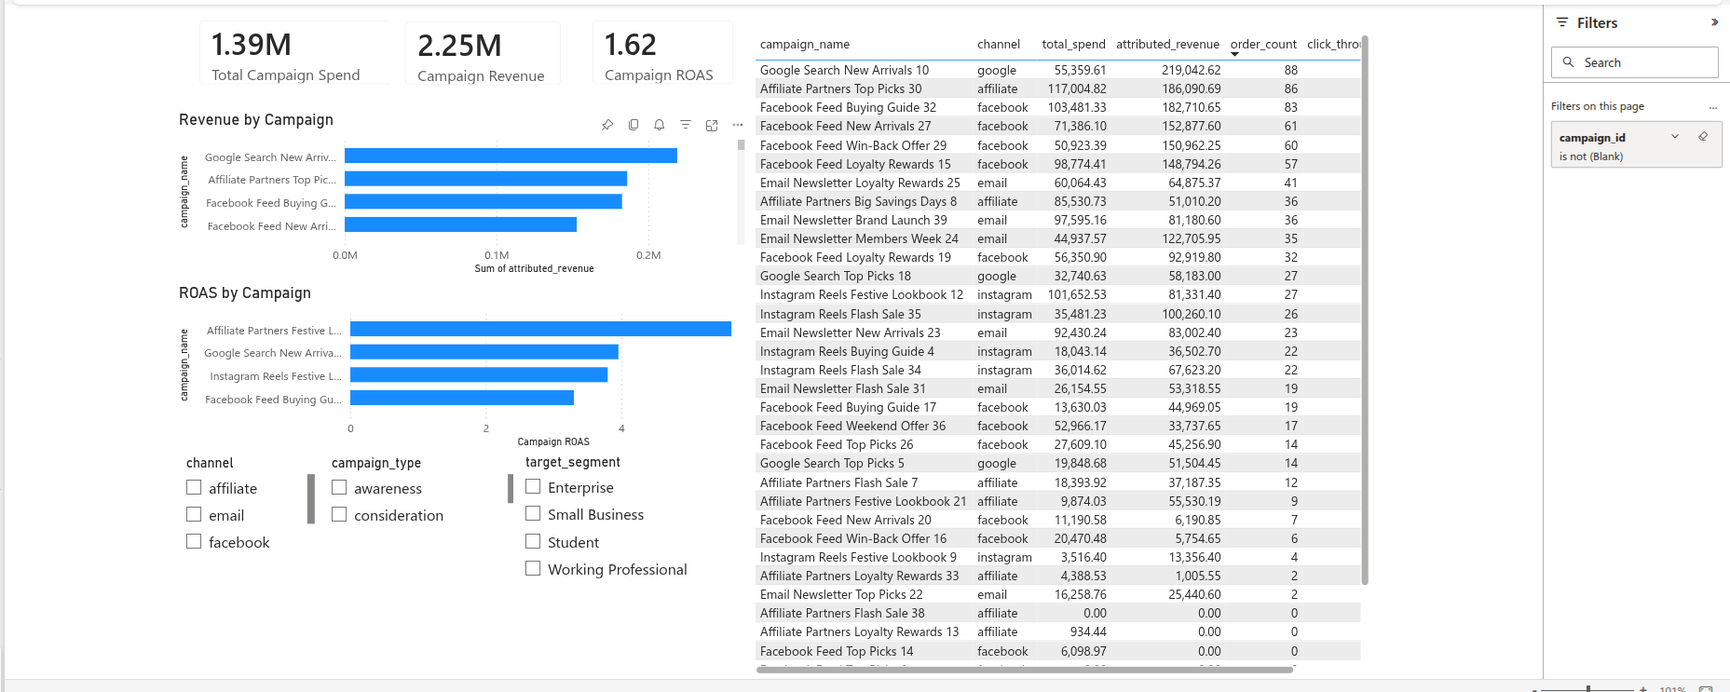
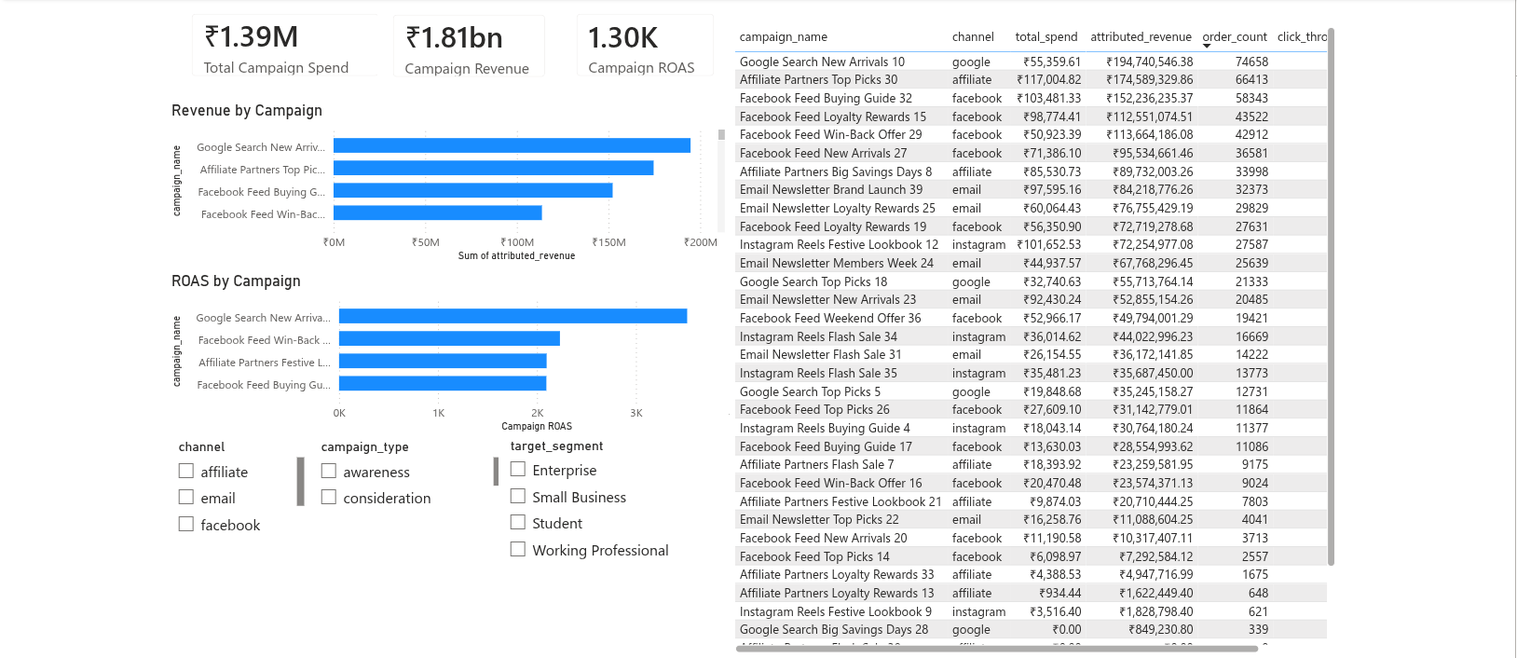
Show the 4,00,000-customer run in Power BI and S3, and how route A gets there
Route A's five CSVs reach Power BI Online by web URL from a second S3
bucket, set up by hand and not in Terraform, with a daily refresh. The
README, the refresh flow, the dashboard guide and the data dictionary
said they were uploaded in Power BI Online; they now describe the web
sources. The dashboard spec now says which two of the Terraform bucket's
five files a semantic model reads, and the README says that neither
bucket policy enforces TLS.

On 23 November 2026 both buckets were given the scale run's files: the
five route A CSVs by hand, and four route B summary files by terraform
apply (0 added, 4 changed, 0 destroyed; the plan after it reports no
changes). customer_lifetime_value.csv stays the default-size file: at
scale it would upload in parts, and its ETag would then not match
etag = filemd5(...). main.tf is unchanged.

docs/scale_run_evidence.md gets a "Power BI and S3" section with the
rows, sizes, md5 sums, Terraform output, HTTP checks and card values. The
nine Power BI screenshots are replaced by ones taken after the refresh.
The committed exports/power_bi files are still the default-size run that
CI checks.

diff --git a/README.md b/README.md
@@ -31,7 +31,7 @@ This project demonstrates practical Data Engineering and Analytics Engineering c
 | Analytics engineering | 24 dbt models and 82 dbt tests, docs, lineage, and exposures |
 | Orchestration | A single Airflow DAG (Airflow 3.2) with 20 tasks covering the lakehouse, warehouse, dbt and reporting |
 | Reporting | Power BI Online dashboard assets, screenshots, CSV exports, and refresh flow documentation |
-| Infrastructure | Terraform for the S3 layer that serves the Power BI CSVs |
+| Infrastructure | Terraform for the S3 layer that serves the route B Power BI CSVs |
 | CI/CD | GitHub Actions: static checks, unit tests in two time zones, and a full end-to-end integration run |
 
 ---
@@ -102,7 +102,8 @@ flowchart TD
     M --> P["Route A exports<br/>exports/power_bi/*.csv"]
     J --> P2["Route B exports<br/>data/bi_exports/*.csv"]
     P2 --> Q["S3 public HTTPS URLs<br/>five CSVs"]
-    P --> R["Power BI Online<br/>semantic model, reports, dashboard"]
+    P --> QA["Second S3 bucket, not in Terraform<br/>five CSVs, replaced by hand"]
+    QA --> R["Power BI Online<br/>semantic model, reports, dashboard"]
     Q --> R
 
     S["Airflow DAG"] --> C
@@ -161,7 +162,7 @@ flowchart TD
 | Analytics engineering | dbt-core 1.10.15, dbt-postgres 1.10.0 |
 | Orchestration | Apache Airflow 3.2.0 |
 | BI/reporting | Power BI Online |
-| BI exports | CSV datasets; five of them served from S3 over public HTTPS URLs |
+| BI exports | CSV datasets; ten of them, five per route, served from S3 over public HTTPS URLs |
 | Infrastructure | Terraform (CI validates with 1.17.1) |
 | CI/CD | GitHub Actions |
 | Container runtime | Docker |
@@ -186,8 +187,8 @@ Exact Python pins are in `requirements.txt` (runtime) and `requirements-dev.txt`
 | pytest | Unit tests in two time zones with the database tests required; integration assertions on the finished pipeline | `tests/unit/`, `tests/integration/` | CI `unit` and `integration`; locally `venv/bin/python -m pytest tests/unit` and `bash tests/integration/run_local.sh` |
 | GitHub Actions | The quality gate on every push and pull request | `.github/workflows/ci.yml` | The workflow runs themselves (five jobs) |
 | Power BI | The dashboard, built by hand in Power BI Online from the exported CSVs | `exports/power_bi/`, `data/bi_exports/`, `docs/warehouse/power_bi_*.md`, screenshots in `docs/screenshots/power_bi/` | Not run by the DAG or CI. CI `powerbi-assets` validates the CSVs, their column order, the manifest and the docs; CI `integration` produces the route B CSVs. The dashboard itself is shown by screenshots only |
-| AWS S3 | Hosts five route B CSVs that Power BI Online reads over HTTPS | `terraform/aws-bi-exports/` | Not touched by the DAG or CI (no AWS credentials there). Upload is a manual `terraform apply`; last applied from AWS CloudShell on 14 November 2026; the evidence is the bucket, the dashboard and a final `terraform plan` that reports no changes |
-| Terraform | Looks up the existing S3 bucket and declares its ownership, encryption, public-access and policy settings and the five objects | `terraform/aws-bi-exports/*.tf` | CI `terraform`: `fmt -check`, `init -backend=false`, `validate`. `plan` and `apply` are manual and never run in CI. Applied from AWS CloudShell on 14 November 2026: the bucket settings and five files, first set up by hand, were imported (9 resources), the files re-uploaded, and a final `plan` reports no changes |
+| AWS S3 | Hosts the CSVs that Power BI Online reads over HTTPS: five route B CSVs in the bucket Terraform manages, and five route A CSVs in a second bucket that was set up by hand and is not in Terraform | `terraform/aws-bi-exports/` (the route B bucket only) | Not touched by the DAG or CI (no AWS credentials there). Route B: upload is a manual `terraform apply`; last applied from AWS CloudShell on 23 November 2026; the evidence is the bucket, the dashboard and a final `terraform plan` that reports no changes. Route A: the five files are replaced by hand in the S3 console |
+| Terraform | Looks up the existing S3 bucket and declares its ownership, encryption, public-access and policy settings and the five objects | `terraform/aws-bi-exports/*.tf` | CI `terraform`: `fmt -check`, `init -backend=false`, `validate`. `plan` and `apply` are manual and never run in CI. Applied from AWS CloudShell on 14 November 2026: the bucket settings and five files, first set up by hand, were imported (9 resources), the files re-uploaded, and a final `plan` reports no changes. Applied again on 23 November 2026 with four summary files of the 4,00,000-customer run (0 added, 4 changed, 0 destroyed); the `plan` after it reports no changes |
 
 Listed in this README but not exercised by the DAG or CI: Power BI Online, AWS S3 and `terraform apply` (manual, as above), the Airflow scheduler itself (manual, local), and the development environment (Ubuntu, VS Code). pandas, Parquet (pyarrow), psycopg and ruff are used by the code or the CI jobs above; uv only builds the local `venv-dbt`.
 
@@ -483,7 +484,7 @@ The reporting layer turns warehouse and Gold marts into Power BI Online assets. 
 
 | Route | Script | Source | Output | How Power BI Online gets it |
 |---|---|---|---|---|
-| A. Warehouse marts | `scripts/export_power_bi_marts.py` (run by hand) | PostgreSQL `marts.*` | `exports/power_bi/*.csv` and `export_manifest.json` (committed) | upload the files in Power BI Online |
+| A. Warehouse marts | `scripts/export_power_bi_marts.py` (run by hand) | PostgreSQL `marts.*` | `exports/power_bi/*.csv` and `export_manifest.json` (committed) | the five CSVs are copied by hand to a second S3 bucket, not managed by Terraform; each route A semantic model reads its file by web URL (Text/CSV) and refreshes daily |
 | B. Gold SCD2 marts | `sql/export_power_bi_dataset.py` (the DAG's `power_bi_export` task) | Gold SCD2 marts and facts, plus verified pipeline checks | `data/bi_exports/*.csv` (git-ignored) | five files uploaded to S3; Power BI reads them through public HTTPS URLs |
 
 Route A exported datasets:
@@ -511,6 +512,10 @@ exports/power_bi/export_manifest.json
 - the module sets ownership controls, SSE-S3 encryption, and the public access block settings;
 - the bucket policy grants public `s3:GetObject` on exactly those five objects, with no listing and no write;
 - the module uploads the five files from `data/bi_exports/`.
+
+**Route A and S3.** Route A's five CSVs are served the same way, from a second S3 bucket that was set up by hand and is not managed by Terraform. Its policy allows public `s3:GetObject` on named files only. Each of the five route A semantic models (Revenue Trends, Campaign Performance, Product Performance, Customer 360, Marketing Funnel) reads one file by web URL and refreshes daily. A new export reaches the dashboard when its five CSVs replace the objects in that bucket.
+
+**Which size each copy is.** The CSVs committed in `exports/power_bi/` are the default-size run (500 customers): they are what CI checks. The files in S3, what Power BI Online shows and the screenshots in section 14 are the 4,00,000-customer run of 23 November 2026, with one exception: `customer_lifetime_value.csv`, the per-customer file in the Terraform bucket, stays the default-size file. At scale it is 11,22,12,255 bytes. The AWS provider uploads a file that large in parts, S3's ETag for it is then not an MD5, and `etag = filemd5(...)` in `main.tf` would show a change on every later `terraform plan`. No Power BI semantic model reads that file. The evidence is in [`docs/scale_run_evidence.md`](docs/scale_run_evidence.md#power-bi-and-s3).
 
 **The column order is a contract.** Power BI reads these CSVs by column position. `scripts/power_bi_dashboard_contract.json` records the columns each file of both routes was published with, in order. Both export scripts write those columns first, in that order, and append every newer column after them; `scripts/validate_powerbi_assets.py` (CI job `powerbi-assets`) and the tests fail when a published column is moved, renamed or dropped.
 
@@ -606,7 +611,7 @@ docs/screenshots/power_bi/02_campaign_performance.png
 docs/screenshots/power_bi/03_data_quality_reconciliation.png
 ```
 
-The dashboard screenshots were taken on 14 November 2026 from the current data; for example the executive overview's totals (revenue INR 3,984,959.66, spend INR 1,434,179.14) are those of `data/bi_exports/campaign_performance.csv`.
+The dashboard screenshots were taken on 23 November 2026, after the 4,00,000-customer files were placed in S3 and every semantic model was refreshed; money is shown in rupees (₹). For example, the executive overview's totals (revenue INR 3,142,927,795.52, spend INR 1,434,179.14) are those of the scale run's route B `campaign_performance.csv`, which is not committed. The committed exports in `exports/power_bi/` are the default-size run and give smaller figures.
 
 Airflow screenshot:
 
@@ -614,7 +619,7 @@ Airflow screenshot:
 docs/screenshots/airflow/01_dag_run_success.png
 ```
 
-Export proof:
+Export proof (the default-size run, which CI checks; the 4,00,000-customer exports are not committed):
 
 ```text
 exports/power_bi/*.csv
@@ -896,7 +901,10 @@ At the default size none of this is needed. At 4,00,000 customers, the run above
    - **Why:** a build writes the new warehouse beside the live one and drops the old one only when it commits, plus temporary files.
    - **Measured:** the scale database is about 42 GB. The timed build on `b223266` started with 93 GB free on Docker's disk and had 32 GB left at its lowest, with up to 31.6 GB of temporary files and tables at once.
    - **Recommendation:** start a scale build with at least 80 GB free.
-7. **Leave out `power_bi_export`.** It would write scaled files (among them the per-customer `customer_lifetime_value.csv`) to `data/bi_exports/`, which `terraform apply` uploads to S3. Do not run `terraform apply`, the route A export or a Power BI refresh while the warehouse holds a scaled shop.
+7. **Leave out `power_bi_export`, and export to a folder outside the checkout.**
+   - **Why:** the task writes to `data/bi_exports/`, which `terraform apply` uploads, and the route A script writes by default to `exports/power_bi/`, whose committed files are the default-size run that CI checks.
+   - **How it was done on 23 November 2026:** both export scripts were run once by hand with `--export-dir` (and, for route B, `--report-path`) set to a folder outside the checkout, route B with `BATCH_DATE=2026-06-18`, and route A in a read-only session with parallel query off (`PGOPTIONS="-c default_transaction_read_only=on -c max_parallel_workers_per_gather=0"`).
+   - **What was published:** route A's five CSVs, never its `export_manifest.json`, which holds local paths when written outside the checkout. Only four route B files went to the Terraform bucket: `customer_lifetime_value.csv` stays the default-size file there (section 12 says why).
 
 Silver, Gold and the warehouse are rebuilt from all of Bronze on every run, so a scale run takes every batch into Bronze first, in date order, and then runs everything from Silver on once, as the last batch. The Silver and Gold checks of the earlier batches run right after the last batch's: they only read the lake and write their own reports, and the Silver check of a batch looks at that batch's rows (by `ingestion_date`).
 
@@ -936,6 +944,8 @@ PGHOST=localhost PGPORT=5434 PGDATABASE=marketing_analytics PGUSER=project2 PGPA
   venv/bin/python scripts/export_power_bi_marts.py
 venv/bin/python scripts/validate_powerbi_assets.py
 ```
+
+To show a new export in Power BI Online, replace the five CSVs in the route A S3 bucket by hand (S3 console), under the same names; do not upload `export_manifest.json`. The semantic models' daily refresh picks them up, or they can be refreshed by hand.
 
 ### Upload the route B files to S3
 
@@ -1018,7 +1028,7 @@ cat exports/power_bi/export_manifest.json
 
 Deliberate trade-offs for a portfolio project built on synthetic data:
 
-- **Public dashboard files.** Power BI Online reads five synthetic CSVs from S3 through public, read-only object URLs (no listing, no write access). The bucket policy does not enforce TLS, which is acceptable for synthetic data; a production setup would serve the files privately, for example through CloudFront with origin access control.
+- **Public dashboard files.** Power BI Online reads synthetic CSVs from two S3 buckets, five per route, through public, read-only object URLs: both bucket policies grant only `s3:GetObject` on named files (no listing, no write access). Neither policy enforces TLS, which is acceptable for synthetic data; a production setup would serve the files privately, for example through CloudFront with origin access control.
 - **Reproducibility scope.** Direct dependencies are pinned; transitive dependencies of the dev tools are not.
 
 **Known characteristics of the synthetic data.** The source is made coherent enough that nothing contradicts itself, not realistic. Left as they are, on purpose: the funnel converts far more often than a real shop (event types are drawn almost evenly, so about one event in six is a purchase); most orders are a single line; loyalty points do not grow with orders and stock does not fall with sales; the model-score fields (engagement, purchase and abandonment probability, fraud score) and the recommendation fields are random and unrelated to what the visitor did, which also keeps them from leaking outcomes; an IP address is not tied to the visit's city and names are not regional; every web event carries a product, page views and searches included; prime members pay shipping like everyone else, and the free-shipping value is high for the typical order; there is no price or campaign history before the first batch; the ad platform's conversions are independent of the shop's orders; and the channel names (`google`, `facebook`, `instagram`) are the real platforms, while product brands are invented.

diff --git a/docs/scale_run_evidence.md b/docs/scale_run_evidence.md
@@ -113,11 +113,105 @@ So the scale warehouse built by `b223266` has the same rows, marts, reports and 
 
 The peaks were sampled once a minute, so a shorter peak can have been higher.
 
+## Power BI and S3
+
+On 23 November 2026, from the scale lake and warehouse above, on commit `ca25502`.
+
+**The exports.** Both export scripts were run once, by hand, writing to a folder outside the checkout:
+- route B with `BATCH_DATE=2026-06-18`;
+- route A in a read-only session with parallel query off.
+
+Afterwards:
+- the live database's row counts and server settings were the same as before;
+- nothing in the checkout had changed;
+- the committed `exports/power_bi/` files are still the default-size run.
+
+| Route B file | Rows | Route A file | Rows |
+|---|---|---|---|
+| `campaign_performance.csv` | 55 | `revenue_daily.csv` | 152 |
+| `customer_lifetime_value.csv` | 3,84,062 | `campaign_performance.csv` | 39 |
+| `product_performance.csv` | 141 | `product_sales.csv` | 149 |
+| `marketing_funnel.csv` | 34 | `customer_360.csv` | 3,99,999 |
+| `data_quality_summary.csv` | 87, every check PASS | `marketing_funnel.csv` | 1,324 |
+| `fact_orders.csv` | 12,89,899 | | |
+| `fact_order_items.csv` | 14,29,440 | | |
+| `fact_campaign_spend.csv` | 4,284 | | |
+
+The route B report's overall status was PASS. All five route A manifest records were SUCCESS. The three fact files are not published.
+
+**Route A: the second S3 bucket.** Route A's five semantic models read their CSVs by web URL from an S3 bucket that was set up by hand and is not in Terraform's state. On 14 November its five objects were byte-identical to the committed `exports/power_bi/` files. On 23 November they were replaced by hand in the S3 console. Two checks followed, for each object:
+- it was read back from S3 with the account's own credentials, and its md5 equals the export's;
+- a public HTTPS request for it, without credentials, returned HTTP 200 with the right Content-Length.
+
+| File | Bytes, 14 Nov | Bytes, 23 Nov | Public read | md5, 23 Nov |
+|---|---|---|---|---|
+| `campaign_performance.csv` | 12,362 | 13,892 | HTTP 200 | `b96d1a8129ff3858285e641fc13afd23` |
+| `customer_360.csv` | 1,43,947 | 11,73,24,284 | HTTP 200 | `f098d82bb24fe09dbfa3dc035ca78a77` |
+| `marketing_funnel.csv` | 1,79,789 | 2,48,186 | HTTP 200 | `c8ee2500b5657cbdf69dad274932127d` |
+| `product_sales.csv` | 30,039 | 35,685 | HTTP 200 | `e6ddb180ad4c96eee07d877ad3dffdc6` |
+| `revenue_daily.csv` | 23,173 | 30,739 | HTTP 200 | `a9421b2d5087e965f98dfc7ac6904556` |
+
+**Route B: the Terraform bucket.** Terraform v1.17.1 in AWS CloudShell, with the state unchanged since 14 November. Four summary files went up at scale. `customer_lifetime_value.csv` stays the default-size file of 14 November (1,36,893 bytes), for two reasons:
+- **Size:** at scale it is 11,22,12,255 bytes.
+- **ETag:** the AWS provider uploads objects over 5 MiB in parts, and S3's ETag is then not an MD5. `etag = filemd5(...)` in `main.tf` would therefore show one change on every later plan.
+
+`main.tf` is unchanged. The steps:
+
+1. `terraform plan` with the 14 November files: `No changes. Your infrastructure matches the configuration.`
+2. The four files placed, md5 checked; `terraform fmt -check -recursive` passed.
+
+   | File | Bytes | md5 |
+   |---|---|---|
+   | `campaign_performance.csv` | 26,081 | `620a2771ff9c0aa26ee964ef5720b8cf` |
+   | `product_performance.csv` | 44,129 | `da6f880307d3aa73563b8c6a54e8a555` |
+   | `marketing_funnel.csv` | 10,256 | `1f7645f6533e5c07fe26eb1709270e32` |
+   | `data_quality_summary.csv` | 7,124 | `86c77c54a9869b1204ca3a312cedc9dc` |
+
+3. `terraform plan`: four `aws_s3_object.power_bi_exports[...] will be updated in-place`, then `Plan: 0 to add, 4 to change, 0 to destroy.`
+4. `terraform apply`: four `Modifications complete`, then `Apply complete! Resources: 0 added, 4 changed, 0 destroyed.`
+5. `terraform plan` again: `No changes. Your infrastructure matches the configuration.`
+6. The bucket:
+   - for all five objects, the S3 ETag equals the local md5;
+   - a public read of each returns HTTP 200 with Content-Length 26,081, 44,129, 10,256, 7,124 and 1,36,893;
+   - another key returns HTTP 403, and so does listing the bucket;
+   - four objects are dated 23 November 2026 and `customer_lifetime_value.csv` 14 November 2026.
+
+Only `campaign_performance.csv` and `data_quality_summary.csv` of this bucket are connected to a Power BI semantic model.
+
+**Power BI Online.** All seven semantic models were refreshed on 23 November 2026 between 22:32 and 22:37 IST, with no warnings. Money columns and measures are shown in rupees (₹); counts, ratios and percentages are unchanged. The cards, at scale and as they were on 14 November at the default size:
+
+| Page | Card | 4,00,000 customers | Default size |
+|---|---|---|---|
+| Revenue Trends | Total Net Revenue | ₹3.28bn | 4.22M |
+| Revenue Trends | Total Orders | 1M | 2K |
+| Revenue Trends | Average Order Value | ₹2.74K | 2.80K |
+| Customer 360 | Total Customers | 400K | 497 |
+| Customer 360 | Average Customer Value | ₹7.86K | 7.92K |
+| Customer 360 | Total Lifetime Value | ₹3.14bn | 3.94M |
+| Customer 360 | Total Orders | 1M | 2K |
+| Campaign Performance | Total Campaign Spend | ₹1.39M | 1.39M |
+| Campaign Performance | Campaign Revenue | ₹1.81bn | 2.25M |
+| Campaign Performance | Campaign ROAS | 1.30K | 1.62 |
+| Product Performance | Total Product Revenue | ₹3.06bn | 3.82M |
+| Product Performance | Product Web Events | 8M | 10K |
+| Product Performance | Units Sold | 2M | 3K |
+| Product Performance | Average Selling Price | ₹1.45K | 1.45K |
+| Marketing Funnel | Total Events | 8M | 10K |
+| Marketing Funnel | Total Sessions | 3M | 4K |
+| Marketing Funnel | Total Purchases | 1M | 2K |
+| Marketing Funnel | Funnel Conversion Rate | 42.20% | 43.10% |
+| Executive Overview | Total Revenue | ₹3.14bn | 3.98M |
+| Executive Overview | Total Spend | ₹1.43M | 1.43M |
+| Executive Overview | Average ROAS | 810.75 | 1.07 |
+| Executive Overview | Total Orders | 1M | 2K |
+
+The Executive Overview table's totals are spend ₹1,434,179.14 and revenue ₹3,142,927,795.52. The Data Quality page shows 87 checks, every one PASS. The nine Power BI screenshots in the README (section 14) were taken after this refresh.
+
 ## What was not measured
 
 - **The tasks other than the build were not re-run after the speed-ups.** Their times are the full run's. The speed-ups changed only the build's SQL, and `66d77e0` the Spark heap of three jobs, which has not run at scale.
 - **dbt at scale after the speed-ups.** `dbt_run`, `dbt_test` and `dbt_docs` were timed only in the full run.
-- **`power_bi_export`, the route A export, `terraform apply` and a Power BI refresh at this size:** never run, by design. They would publish scaled files.
+- **The `power_bi_export` task at this size:** not run through `run_dag.py`, by design, because it writes into the checkout. Its script was run by hand instead (see "Power BI and S3").
 - **Airflow at this size.** The tasks ran through `run_dag.py`; Airflow's fixed task environment cannot pass the settings above.
 - **The build with its default settings, or after the server settings were reverted:** not timed at this size.
 - **Variation between runs:** each build was timed once.

diff --git a/docs/warehouse/power_bi_refresh_flow.md b/docs/warehouse/power_bi_refresh_flow.md
@@ -12,10 +12,14 @@ The project produces Power BI CSVs in two ways:
 
 | Route | Script | Source | Output | How Power BI Online gets it |
 |---|---|---|---|---|
-| A. Warehouse marts | `scripts/export_power_bi_marts.py` (run by hand) | PostgreSQL `marts.*` | `exports/power_bi/*.csv` (committed) | upload the files in Power BI Online |
+| A. Warehouse marts | `scripts/export_power_bi_marts.py` (run by hand) | PostgreSQL `marts.*` | `exports/power_bi/*.csv` (committed) | the five CSVs are copied by hand to a second S3 bucket, not managed by Terraform; each route A semantic model reads its file by web URL (Text/CSV) and refreshes daily |
 | B. Gold SCD2 marts | `sql/export_power_bi_dataset.py` (the DAG's `power_bi_export` task) | Gold SCD2 marts and facts, plus verified pipeline checks | `data/bi_exports/*.csv` (git-ignored) | five files are uploaded to S3 by `terraform/aws-bi-exports`; Power BI reads them through public HTTPS URLs |
 
 Route B serves the dashboard through S3 because the available Microsoft account had no OneDrive for Business upload. Its five public files are `campaign_performance.csv`, `customer_lifetime_value.csv`, `product_performance.csv`, `marketing_funnel.csv` and `data_quality_summary.csv`: read-only, exactly those objects, synthetic data only. `data_quality_summary.csv` is built from verified checks (warehouse reconciliation, SCD2 validation, Silver quarantine, point-in-time conservation), never by hand.
+
+Route A is also served through S3, from a second bucket that was set up by hand and is not in Terraform's state. Its policy allows public `s3:GetObject` on named files only. The five route A semantic models (Revenue Trends, Campaign Performance, Product Performance, Customer 360, Marketing Funnel) each read one CSV from it by web URL, with a daily scheduled refresh. `export_manifest.json` is never uploaded: written outside the checkout, it holds local paths.
+
+The committed `exports/power_bi/` files are the default-size run (500 customers), which CI checks. Since 23 November 2026 both buckets hold the 4,00,000-customer run's files, except `customer_lifetime_value.csv`, which stays the default-size file; see `docs/scale_run_evidence.md`, "Power BI and S3".
 
 The rest of this document describes route A; the route B refresh steps are under "Recurring refresh".
 
@@ -38,7 +42,9 @@ scripts/export_power_bi_marts.py
     ↓
 exports/power_bi/*.csv
     ↓
-Power BI Online upload / refresh
+route A S3 bucket (files replaced by hand)
+    ↓
+Power BI Online web sources, daily scheduled refresh
     ↓
 Dashboard visuals
 ```
@@ -164,8 +170,8 @@ python -m json.tool exports/power_bi/export_manifest.json
 
 1. Open Power BI Service in the browser.
 2. Open the target workspace.
-3. Route A: upload the CSV files from `exports/power_bi/`. Route B: create Text/CSV (web) sources from the URLs in `terraform output power_bi_csv_urls`.
-4. Create a semantic model or report from the uploaded CSV datasets, depending on the workspace features available.
+3. Route A: upload the five CSV files to the route A S3 bucket (S3 console) and create Text/CSV (web) sources from their object URLs. Route B: create Text/CSV (web) sources from the URLs in `terraform output power_bi_csv_urls`.
+4. Create a semantic model or report from the web sources, depending on the workspace features available, and give each semantic model a daily scheduled refresh.
 5. Confirm data types:
    - Date columns as Date
    - Revenue/spend fields as Decimal number or Currency. Every monetary field in the exports of both routes is in Indian rupees (INR); set the currency format to ₹ (English (India))
@@ -183,12 +189,12 @@ python -m json.tool exports/power_bi/export_manifest.json
 
 ### Recurring refresh
 
-Route A (warehouse marts, uploaded files):
+Route A (warehouse marts, S3 bucket set up by hand):
 
 1. Run or confirm the Airflow/warehouse pipeline.
 2. Run `scripts/export_power_bi_marts.py`.
-3. Upload or replace the CSV files in Power BI Online.
-4. Refresh the report/dataset if required by the workspace flow.
+3. Replace the five CSV files in the route A S3 bucket by hand (S3 console), under the same names; do not upload `export_manifest.json`.
+4. The daily scheduled refresh picks them up; refresh the five semantic models by hand to see them at once.
 5. Confirm dashboard visuals reflect the latest exported data.
 
 Route B (Gold SCD2 marts, S3 URLs):
@@ -384,14 +390,14 @@ python -m pip install "pip>=25,<26"
 python -m pip install "psycopg2-binary>=2.9,<3"
 ```
 
-### Power BI CSV upload issues
+### Power BI CSV refresh issues
 
 Possible causes:
 
-- CSV schema changed after the first upload.
+- CSV schema changed after the semantic model was built.
 - Date columns were inferred as text.
 - Numeric fields were inferred as text.
-- Browser upload used an old cached file.
+- An old file was uploaded to the S3 bucket.
 - A CSV file was replaced while still being read.
 
 Fix:
@@ -400,7 +406,7 @@ Fix:
 2. Confirm file timestamps with `ls -lh exports/power_bi`.
 3. Confirm headers with `head -n 1`.
 4. Confirm row counts with `wc -l`.
-5. Re-upload the CSV files.
+5. Replace the CSV files in the S3 bucket again and refresh the semantic models.
 6. Correct inferred data types in Power BI Online.
 
 ## Optional `.pbix` note

diff --git a/docs/warehouse/power_bi_dashboard.md b/docs/warehouse/power_bi_dashboard.md
@@ -356,23 +356,23 @@ Show user movement through the marketing funnel and identify drop-off points.
 
 ## Power BI Online manual build instructions
 
-### Upload CSV files
+### Connect the CSV files
 
 1. Open Power BI Service in the browser.
 2. Go to the target workspace.
-3. Choose upload/import options for local files.
-4. Upload these CSV files from `exports/power_bi/`:
+3. Copy these CSV files from `exports/power_bi/` by hand (S3 console) to the route A S3 bucket, a second bucket that was set up by hand and is not managed by Terraform; never upload `export_manifest.json`:
    - `revenue_daily.csv`
    - `campaign_performance.csv`
    - `product_sales.csv`
    - `customer_360.csv`
    - `marketing_funnel.csv`
+4. Create a Text/CSV (Web) source for each file from its object URL.
 
 ### Create semantic model/report
 
 Depending on available Power BI Service workspace features:
 
-1. Create a semantic model from the uploaded CSV files, or create a report directly from each uploaded dataset.
+1. Create a semantic model from each web source, or create a report directly from each one, and give each semantic model a daily scheduled refresh.
 2. Confirm column data types:
    - date fields as Date
    - revenue/spend/order metrics as decimal or whole number
@@ -416,13 +416,13 @@ Suggested slicers:
    - Funnel conversion rate
 4. Arrange tiles from executive summary at the top to detailed analysis below.
 
-### Refresh / re-upload flow
+### Refresh flow
 
 For this Ubuntu-friendly demo:
 
 1. Airflow runs the lakehouse and warehouse pipeline.
 2. PostgreSQL marts are refreshed.
-3. Route A: `scripts/export_power_bi_marts.py` writes fresh CSV files into `exports/power_bi/`, and they are uploaded in Power BI Online.
+3. Route A: `scripts/export_power_bi_marts.py` writes fresh CSV files into `exports/power_bi/`; they are copied by hand to the route A S3 bucket, and the semantic models' daily refresh reads them by web URL.
 4. Route B: the DAG's `power_bi_export` task writes five files into `data/bi_exports/` (including `data_quality_summary.csv`, built from verified checks), `terraform apply` in `terraform/aws-bi-exports` uploads them to S3, and Power BI Online refreshes them from their public HTTPS URLs (read-only, synthetic data only).
 5. Dashboard visuals reflect the latest data.
 

diff --git a/docs/warehouse/power_bi_data_dictionary.md b/docs/warehouse/power_bi_data_dictionary.md
@@ -322,7 +322,7 @@ Supports funnel progression reporting, conversion analysis, and drop-off identif
 
 ## Data quality expectations
 
-Before CSV files are uploaded to Power BI Online:
+Before the CSV files are copied to S3 for Power BI Online:
 
 1. Every required CSV file must exist.
 2. Every CSV file must contain a header row.
@@ -354,6 +354,6 @@ python -m json.tool exports/power_bi/export_manifest.json
 - Use CSV files as imported datasets.
 - Keep base business logic in PostgreSQL marts.
 - Use Power BI measures only for presentation-level calculations when needed.
-- Correct inferred data types after upload.
+- Correct inferred data types after a web source is first loaded.
 - Prefer slicers for date, campaign, product category, and customer segment.
 - Keep dashboard visuals aligned to the mart grain.

diff --git a/docs/power_bi_dashboard_spec.md b/docs/power_bi_dashboard_spec.md
@@ -29,7 +29,7 @@ Export location:
 data/bi_exports/
 ```
 
-Power BI Online reads the five uploaded files through public HTTPS S3 URLs managed by `terraform/aws-bi-exports` (read-only, exactly those five objects). Only synthetic data is ever uploaded.
+The five uploaded files are served through public HTTPS S3 URLs managed by `terraform/aws-bi-exports` (read-only, exactly those five objects). Two of them, `campaign_performance.csv` and `data_quality_summary.csv`, are connected to a Power BI Online semantic model. Only synthetic data is ever uploaded.
 
 ## Data Quality Summary
 
